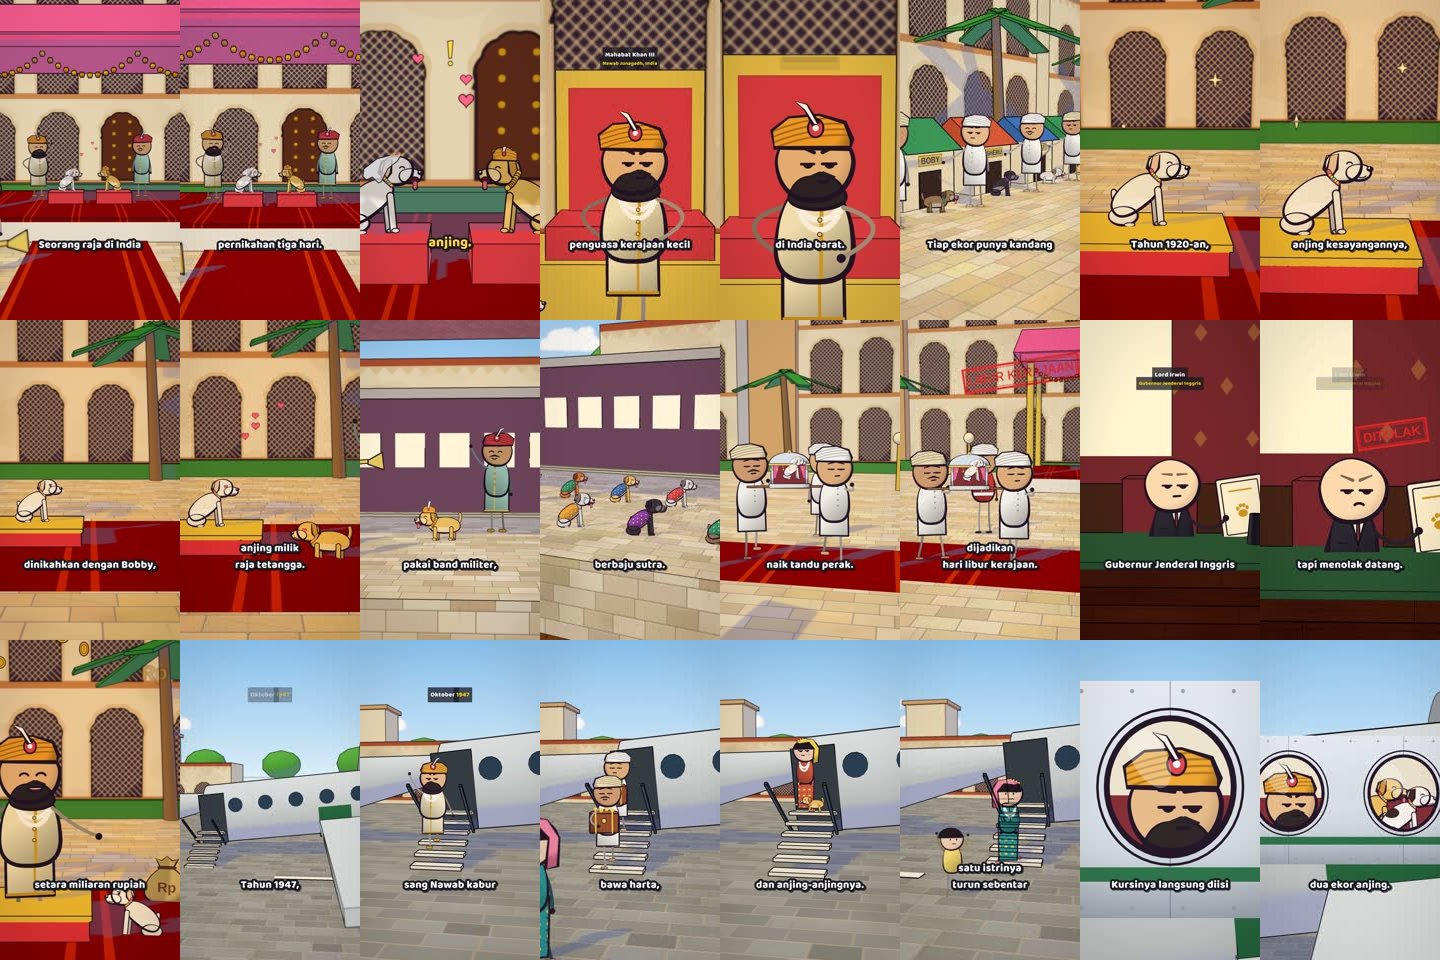
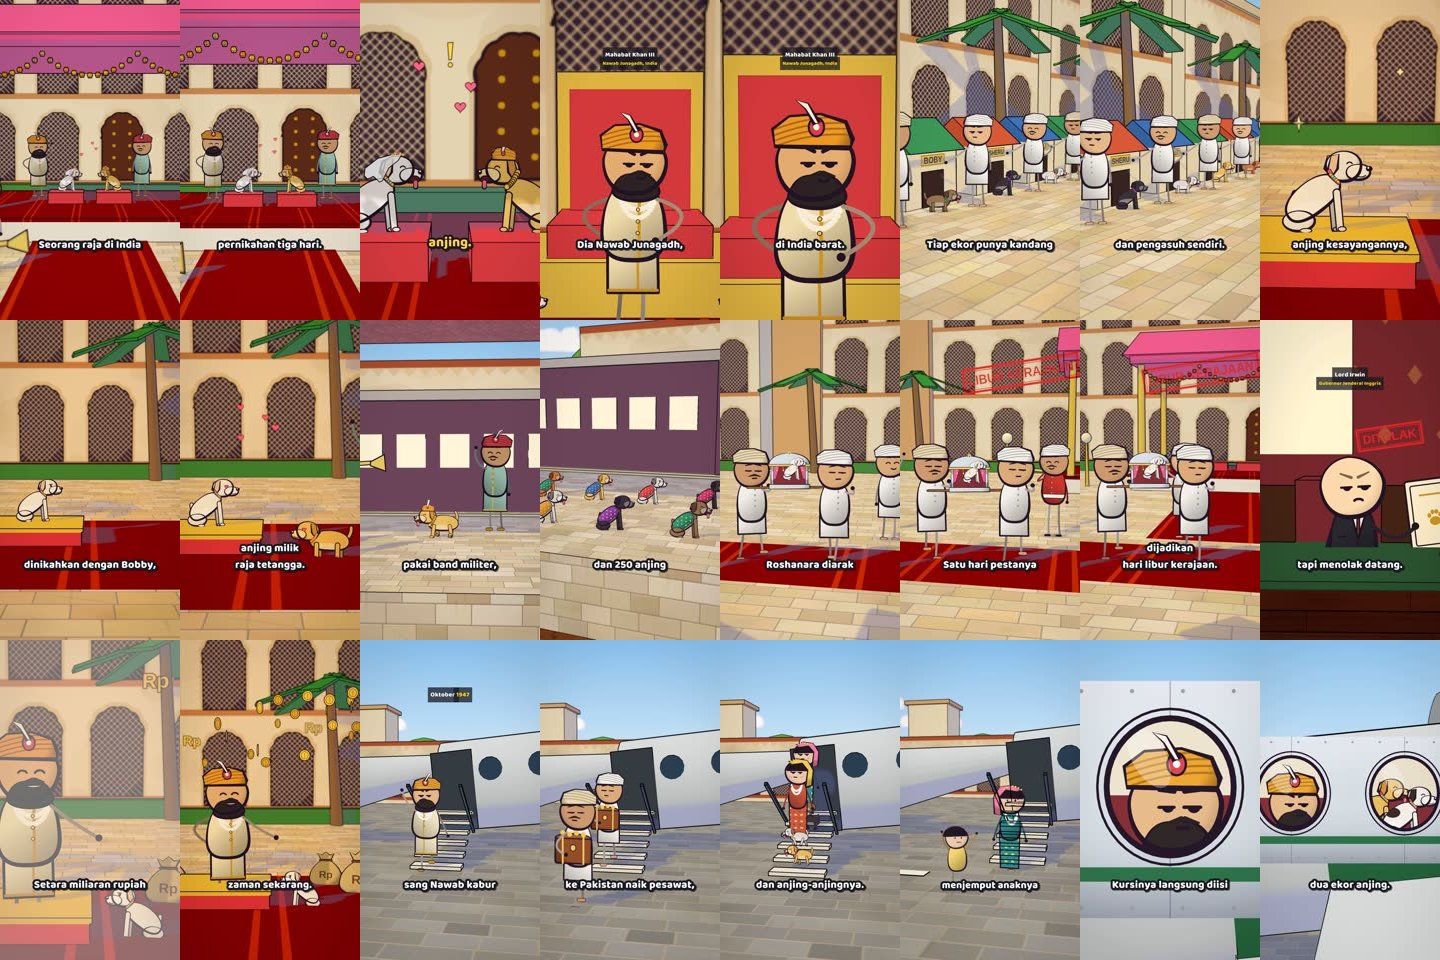
Nikahan Anjing v2: cut 'Konon' from VO, fix stair occlusion
Claude-Session: https://claude.ai/code/session_015wYate2eDy4Up4ZJ9cqZH9

diff --git a/content/nikahan-anjing/story.js b/content/nikahan-anjing/story.js
@@ -234,15 +234,15 @@ export const cardsAt = (f, camPos) => {
       ["beg0", C.BEGUM, T.istri - 30, 80, { expr: "neutral", armF: "hang" }],
       ["beg1", { ...C.BEGUM, coat: "#c8553d", skirt: "#c8553d", hatCol: "#f3c64a" }, T.istri - 14, 80, { expr: "neutral", armF: "hang" }],
     ];
-    who.forEach(([id, o, f0, dur, op], i) => { const c = climb(f, f0, dur); if (!c.on) return; add(P(id, o, DX - 0.12, c.z, -1, { ...op, mode: "march", phase: c.phase, look: -0.5 }, f, 90 + i, { y: c.y, alpha: c.alpha, soft: c.alpha < 1, zwrite: true })); });
-    for (let i = 0; i < 6; i++) { const c = climb(f, T.anjing2 - 34 + i * 6, 48), cc = DOGC[i % 8]; if (!c.on) continue; add(D("pd" + i, { col: cc[0], col2: cc[1], walk: 1, phase: c.phase * 1.6, expr: "pant", collar: SILK[i % 6], patch: i === 1 }, DX + 0.15 * ((i % 2) - 0.5), c.z + 0.1, -1, f, 100 + i, { y: c.y, alpha: c.alpha, soft: c.alpha < 1, zwrite: true })); }
+    who.forEach(([id, o, f0, dur, op], i) => { const c = climb(f, f0, dur); if (!c.on) return; add(P(id, o, DX - 0.12, c.z, -1, { ...op, mode: "march", phase: c.phase, look: -0.5 }, f, 90 + i, { y: c.y, yaw: 0, alpha: c.alpha, soft: c.alpha < 1, zwrite: true })); });
+    for (let i = 0; i < 6; i++) { const c = climb(f, T.anjing2 - 34 + i * 6, 48), cc = DOGC[i % 8]; if (!c.on) continue; add(D("pd" + i, { col: cc[0], col2: cc[1], walk: 1, phase: c.phase * 1.6, expr: "pant", collar: SILK[i % 6], patch: i === 1 }, DX + 0.15 * ((i % 2) - 0.5), c.z + 0.1, -1, f, 100 + i, { y: c.y, yaw: 0, alpha: c.alpha, soft: c.alpha < 1, zwrite: true })); }
     if (f < T.kabur - 30) add(P("nawab0", C.NAWAB, DX - 2.2, DZ + 6.8, -1, { expr: "smug", armF: "hip", armB: "hip", look: -0.4 }, f, 90));
   }
   // ---- 10: one wife steps off for the child ----
   if (s.id === 10) {
     const down = smooth((f - T.turun - 12) / 40), run = clamp01((f - T.turun - 52) / 60);
     const z = down < 1 ? DZ + 0.3 + 1.95 * down : DZ + 2.25 + 1.2 * run, y = 1.08 * (1 - down), x = DX - 0.1 - 0.55 * run;
-    add(P("beg0", C.BEGUM, x, z, down > 0 ? 1 : -1, { expr: f < T.turun ? "neutral" : f < T.turun + 30 ? "shock" : "nervous", armF: f >= T.turun && f < T.turun + 30 ? "point" : "hang", mode: down > 0 && (down < 1 || run < 1) ? "march" : "stand", phase: (f - T.turun) / 12, look: -0.6 }, f, 93, { y }));
+    add(P("beg0", C.BEGUM, x, z, down > 0 ? 1 : -1, { expr: f < T.turun ? "neutral" : f < T.turun + 30 ? "shock" : "nervous", armF: f >= T.turun && f < T.turun + 30 ? "point" : "hang", mode: down > 0 && (down < 1 || run < 1) ? "march" : "stand", phase: (f - T.turun) / 12, look: -0.6 }, f, 93, { y, yaw: down < 1 ? 0 : undefined }));
     add(P("anak", C.ANAK, -5.2, AZ + 4.9, 1, { expr: "nervous", armF: "wave", armB: "up", k: f / 20, look: 0.6 }, f, 110, { scale: 0.62 }));
     if (f >= T.turun - 4 && f < T.turun + 30) add(fx("q", "q", clamp01((f - T.turun + 4) / 10), DX - 0.35, 2.75, DZ + 0.5, 0.55));
   }

diff --git a/content/nikahan-anjing/captions.py b/content/nikahan-anjing/captions.py
@@ -9,12 +9,16 @@ C = [
  (25.15, "Bobby disambut di stasiun"), (26.67, "pakai band militer,"), (28.18, "dan 250 anjing"), (30.01, "berbaju sutra."),
  (31.41, "Roshanara diarak"), (32.47, "naik tandu perak."), (34.13, "Satu hari pestanya"), (35.24, "dijadikan|hari libur kerajaan."),
  (37.65, "Gubernur Jenderal Inggris"), (39.02, "diundang,"), (39.78, "tapi menolak datang."),
- (41.51, "Biayanya?"), (42.76, "Konon,"), (43.53, "setara miliaran rupiah"), (44.97, "zaman sekarang."),
+ (41.51, "Biayanya?"), (43.53, "Setara miliaran rupiah"), (44.97, "zaman sekarang."),
  (46.51, "Tahun 1947,"), (48.70, "sang Nawab kabur"), (49.74, "ke Pakistan naik pesawat,"), (51.67, "bawa harta,"), (52.83, "istri,"), (53.49, "dan anjing-anjingnya."),
- (55.29, "Konon,"), (56.11, "satu istrinya|turun sebentar"), (57.69, "menjemput anaknya"), (58.67, "yang ketinggalan."),
+ (56.11, "Satu istrinya|turun sebentar"), (57.69, "menjemput anaknya"), (58.67, "yang ketinggalan."),
  (60.19, "Kursinya langsung diisi"), (61.51, "dua ekor anjing."), (63.24, "Pesawatnya berangkat."),
 ]
 END = 65.8
+# "Konon" cut from the VO: frames [1278,1304) and [1650,1678) removed (see cut.py); shift all times
+CUTS = [(1278 / 30, 1304 / 30), (1650 / 30, 1678 / 30)]
+def sh(t): return t - sum(b - a for a, b in CUTS if t >= b)
+C = [(sh(a), t) for a, t in C]; END = sh(END)
 assert all(len(t.replace("|", " ")) <= 32 for _, t in C), [t for _, t in C if len(t) > 32]
 def ts_ass(s): h = int(s // 3600); m = int(s % 3600 // 60); return f"{h}:{m:02d}:{s % 60:05.2f}"
 def ts_srt(s): ms = int(round(s * 1000)); return f"{ms // 3600000:02d}:{ms // 60000 % 60:02d}:{ms // 1000 % 60:02d},{ms % 1000:03d}"
@@ -42,7 +46,7 @@ for i, (a, t) in enumerate(C):
     ev.append(f"Dialogue: 0,{ts_ass(a)},{ts_ass(b - 0.02)},Cap,,0,0,0,,{pop}{col}{t.replace('|', chr(92) + 'N')}")
     srt.append(f"{i + 1}\n{ts_srt(a)} --> {ts_srt(b - 0.02)}\n{t.replace('|', chr(10))}\n")
 # context labels (top of frame)
-T_ = lambda a, b, txt: ev.append(f"Dialogue: 1,{ts_ass(a)},{ts_ass(b)},Tag,,0,0,0,,{{\\fad(250,250)}}{txt}")
+T_ = lambda a, b, txt: ev.append(f"Dialogue: 1,{ts_ass(sh(a))},{ts_ass(sh(b))},Tag,,0,0,0,,{{\\fad(250,250)}}{txt}")
 T_(6.8, 11.4, "Mahabat Khan III\\N{\\fs46\\c&H0AD6FF&}Nawab Junagadh, India")
 T_(37.7, 41.3, "Lord Irwin\\N{\\fs46\\c&H0AD6FF&}Gubernur Jenderal Inggris")
 T_(46.55, 50.2, "Oktober {\\c&H0AD6FF&}1947")

diff --git a/content/nikahan-anjing/cut.py b/content/nikahan-anjing/cut.py
@@ -1,0 +1,32 @@
+"""Remove frame ranges from the timeline (here: the two "Konon" beats).
+Audio stems are cut at the same times (10 ms crossfade); frames are relinked into frames_c/.
+python3 cut.py -> work/voice_c.wav work/music_c.wav work/sfx_c.wav, frames_c/f%04d.jpg"""
+import subprocess, numpy as np, wave, os, glob
+FPS, SR = 30, 44100
+CUTS = [(1278, 1304), (1650, 1678)]   # [start, end) in frames
+def load(p):
+    raw = subprocess.run(["ffmpeg", "-v", "error", "-i", p, "-ac", "1", "-ar", str(SR), "-f", "f32le", "-"], capture_output=True, check=True).stdout
+    return np.frombuffer(raw, np.float32).astype(np.float64)
+def cut(x):
+    out, cur, xf = [], 0, int(0.01 * SR)
+    for a, b in CUTS:
+        ia, ib = round(a / FPS * SR), round(b / FPS * SR)
+        head, tail = x[cur:ia], x[ib:ib + xf]
+        r = np.linspace(1, 0, xf)
+        head = head.copy(); head[-xf:] = head[-xf:] * r + tail[:xf] * (1 - r)
+        out.append(head); cur = ib + xf
+    out.append(x[cur:]); return np.concatenate(out)
+for src, dst in [("voice.mp3", "voice_c"), ("work/music.wav", "music_c"), ("work/sfx.wav", "sfx_c")]:
+    y = cut(load(src))
+    with wave.open(f"work/{dst}.wav", "wb") as w:
+        w.setnchannels(1); w.setsampwidth(4); w.setframerate(SR)
+        w.writeframes((np.clip(y, -1, 1) * 2147483647).astype(np.int32).tobytes())
+    print(dst, round(len(y) / SR, 2), "s")
+os.makedirs("frames_c", exist_ok=True)
+for f in glob.glob("frames_c/*.jpg"): os.remove(f)
+drop = set(f for a, b in CUTS for f in range(a, b))
+n = 0
+for f in range(len(glob.glob("frames/f*.jpg"))):
+    if f in drop: continue
+    os.symlink(os.path.abspath(f"frames/f{f:04d}.jpg"), f"frames_c/f{n:04d}.jpg"); n += 1
+print("frames", n, "=", round(n / FPS, 2), "s")

diff --git a/content/nikahan-anjing/NOTES.md b/content/nikahan-anjing/NOTES.md
@@ -1,5 +1,5 @@
 # Nikahan Anjing — Nawab Junagadh (ide #47)
-- Akun: @kokbisa.ai. Bahasa Indonesia. 66 s. Status: FINAL — 1985 frame, 66.2 s, -14.0 LUFS, QA lolos (no freeze/black, flicker max 2.0). VO rapat 64.2 s (lihat PLAN.md)
+- Akun: @kokbisa.ai. Bahasa Indonesia. 66 s. Status: FINAL v2 — 1931 frame, 64.3 s, -14.1 LUFS; "Konon" dipotong dari VO (cut.py, frame 1278–1303 & 1650–1677), hedge pindah ke caption IG; kartu di tangga pesawat yaw 0 (tidak tembus anak tangga), QA lolos (no freeze/black, flicker max 2.0). VO rapat 64.2 s (lihat PLAN.md)
 - Ejaan VO: "Junagad" (bukan Junagadh), tahun dieja. script_v1.txt = versi tampilan.
 
 ## Fakta (T = terverifikasi beberapa sumber, S = satu sumber/anekdot → pakai "konon")
